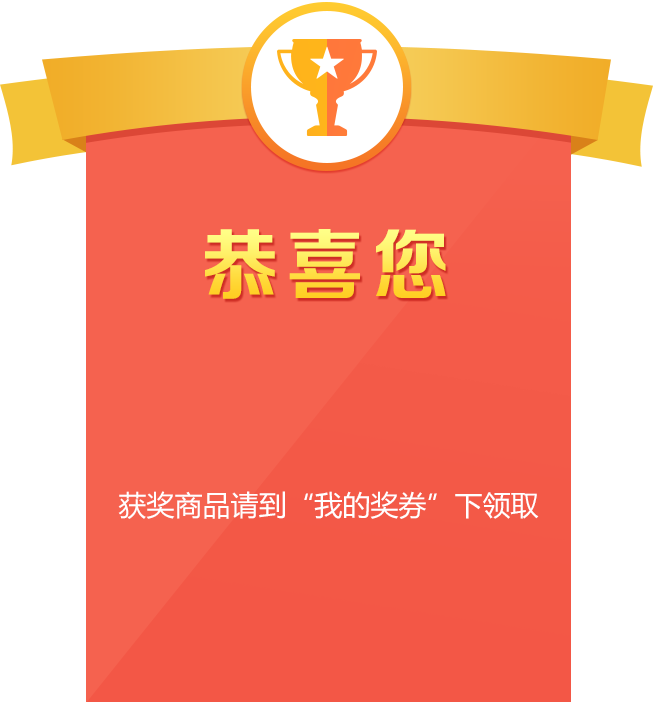
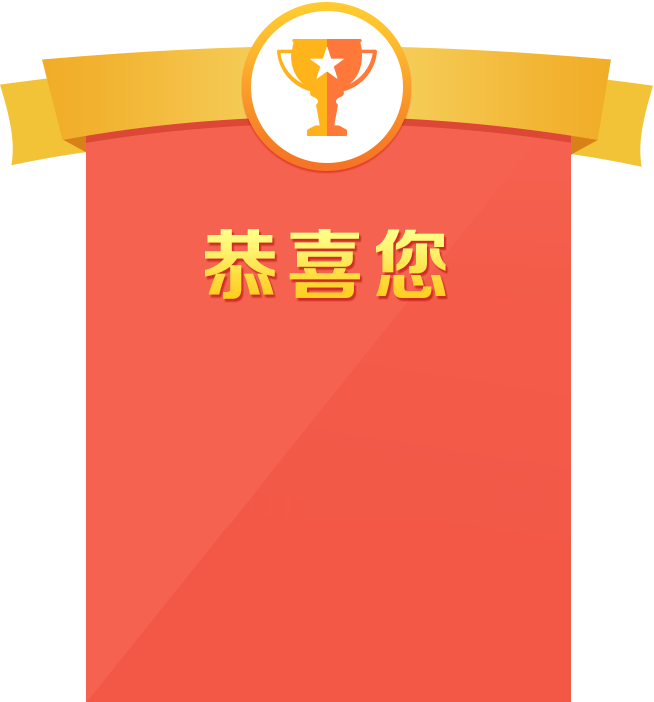
lottery

Changed region(s): [[0.1835, 0.688, 0.4587, 0.7479], [0.4587, 0.688, 0.6728, 0.7479], [0.7034, 0.688, 0.8257, 0.7479]]

diff --git a/app/Public/lottery/js/mui.js b/app/Public/lottery/js/mui.js
@@ -25,7 +25,7 @@ $(function(){
 
 });
 
-/*var page = {
+var page = {
     gameOver:false,
     isStart:false,
     baseNUm:72,
@@ -33,10 +33,10 @@ $(function(){
     angleCount:0,
     prizes:[
         {name:'新年快乐',angle:{"min":-36,"max":36},msg:'新年快乐',msg2:'新年快乐'},
-        {name:'20元',angle:{"min":36,"max":108},msg:'抽中20元 无条件',msg2:'获得20元 无条件'},
-        {name:'100元',angle:{"min":108,"max":180},msg:'抽中100元 满200使用',msg2:'获得100元 满200使用'},
-        {name:'200元',angle:{"min":180,"max":252},msg:'抽中200元 满500使用',msg2:'获得200元 满500使用'},
-        {name:'500元',angle:{"min":252,"max":324},msg:'抽中500元 满1000使用',msg2:'获得500元 满1000使用'},
+        {name:'20元',angle:{"min":36,"max":108},msg:'抽中20元 无条件抽中20元无条件抽中20元无条件抽中20元无条件',msg2:'获得20元 无条件'},
+        {name:'100元',angle:{"min":108,"max":180},msg:'抽中100元 满200使用抽中100元 满200使用抽中100元 满200使用抽中100元 满200使用',msg2:'获得100元 满200使用'},
+        {name:'200元',angle:{"min":180,"max":252},msg:'抽中200元 满500使用抽中200元 满500使用抽中200元 满500使用抽中200元 满500使用',msg2:'获得200元 满500使用'},
+        {name:'500元',angle:{"min":252,"max":324},msg:'抽中500元 满1000使用抽中500元 满1000使用抽中500元 满1000使用抽中500元 满1000使用',msg2:'获得500元 满1000使用'},
     ],
 };
 
@@ -44,7 +44,7 @@ $(function(){
 var index = {
   num: Math.floor(Math.random()*5),
   code: "asasdasasd"
-};*/
+};
 
 //点击抽奖
 function getLotteryResult(){
@@ -54,7 +54,7 @@ function getLotteryResult(){
 	page.isStart = true;
 
     var prizeId = award.num,
-
+      prizeId = 1,
         rounds = Math.floor(Math.random()*4)+4;
     page.pointAngle = (360 - page.angleCount % 360) + 360*rounds - ( Math.floor(Math.random()*page.baseNUm) + page.prizes[prizeId].angle.min);
 
@@ -105,15 +105,17 @@ function showResult(msg,scale){
 }
 
 function popUp(msg,scale, flag){
-  if(flag){
-    $(".js-win").hide();
-    $(".js-win-sorry").show();
-  }else{
-    $(".js-win").show();
-    $(".js-win-sorry").hide();
-  }
+  $(".js-win").hide();
+  $(".js-win-sorry").show();
+  //if(flag){
+  //  $(".js-win").hide();
+  //  $(".js-win-sorry").show();
+  //}else{
+  //  $(".js-win").show();
+  //  $(".js-win-sorry").hide();
+  //}
 
-  $("#winning-text").text(msg);
+  //$("#winning-text").html(msg);
   $("#winning").transition({
     scale: scale,
     duration: 500,
@@ -267,7 +269,7 @@ var mui = {
                 "width":winBackWidth+"px",'height':winBackHeight+"px",'display':'block'});
             var winTextHeight = height*50/mui.screen.imgHeight,
                 winTextTop = height*625/mui.screen.imgHeight;
-            $("#winning-text").css({"top":winTextTop+"px", 'height':winTextHeight+"px",
+            $("#winning-text").css({"top":winTextTop+"px",
                 'font-size':winTextHeight-5+"px",'display':'block'});
             var winOkWidth = width*280/mui.screen.imgWidth,
                 winOkHeight = height*80/mui.screen.imgHeight,

diff --git a/app/wei_index.html b/app/wei_index.html
@@ -15,7 +15,7 @@
     <link href="Public/css/button.css" rel="stylesheet">
     <link href="Public/css/main.css" rel="stylesheet">
 </head>
-<body class="">
+<body class="anni-theme">
 <header class="wei-head color-666 clearfix">
   <div class="pull-left">
     <a href="#">
@@ -212,22 +212,22 @@
   <ul class="l4 clearfix">
     <li class="wei-foot-li">
       <a href="javascript:void(0);">
-        <img src="Public/img/wei_home.png" width="32px"/>
+        <img src="Public/img/wei_home_new.png" width="32px"/>
       </a>
     </li>
     <li class="wei-foot-li">
       <a href="javascript:void(0);">
-        <img src="Public/img/wei_search.png" width="32px"/>
+        <img src="Public/img/wei_search_new.png" width="32px"/>
       </a>
     </li>
     <li class="wei-foot-li">
       <a href="javascript:void(0);">
-        <img src="Public/img/wei_shopping.png" width="32px"/>
+        <img src="Public/img/wei_shopping_new.png" width="32px"/>
       </a>
     </li>
     <li class="wei-foot-li">
       <a href="javascript:void(0);">
-        <img src="Public/img/wei_me.png" width="32px"/>
+        <img src="Public/img/wei_me_new.png" width="32px"/>
       </a>
     </li>
   </ul>

diff --git a/app/lottery.html b/app/lottery.html
@@ -70,11 +70,13 @@
 <div class="mui-winning" id="winning">
   <div class="mui-winning-shadow mui-control" id="winning-shadow"></div>
   <div class="mui-winning-back mui-control" id="winning-back">
-    <img src="Public/lottery/img/win.png" class="mui-img js-win">
-    <img src="Public/lottery/img/win_sorry.png" class="mui-img js-win-sorry hide">
+    <img src="Public/lottery/img/win.png" class="mui-img js-win ">
+    <img src="Public/lottery/img/win_sorry.png" class="mui-img js-win-sorry ">
   </div>
-  <div class="mui-winning-text mui-control" id="winning-text">
-
+  <div class="mui-winning-text mui-control " id="winning-text">
+    <span>抽中20元红包</span><br>
+    <span>全场无条件使用</span><br>
+    <span style="font-size: 12px;">有效期至：2015-11-21 12:00</span>
   </div>
   <div class="mui-winning-ok mui-control" id="winning-ok">
     <img src="Public/lottery/img/ok.png" class="mui-img" id="btn-winning-ok">

diff --git a/app/Public/lottery/css/mui.css b/app/Public/lottery/css/mui.css
@@ -165,7 +165,10 @@ body, html {
 }
 
 .mui-winning-text {
-  width: 100%;
+  width: 60%;
+  left: 50%;
+  margin-right: -50%;
+  transform: translate(-50%);
   z-index: 101;
   text-align: center;
   color: #FFFFFF;
@@ -354,4 +357,19 @@ body, html {
 }
 .n-start>img{
   width: 100%;
+}
+
+.overTextH {
+  display: -webkit-box;
+  -webkit-line-clamp: 2;
+  -webkit-box-orient: vertical;
+  text-overflow: ellipsis;
+  overflow: hidden;
+}
+
+.overText {
+  /*文本文字超过容器以省略号显示*/
+  text-overflow: ellipsis;
+  overflow: hidden;
+  white-space: nowrap;
 }

diff --git a/Gruntfile.js b/Gruntfile.js
@@ -406,8 +406,8 @@ module.exports = function (grunt) {
 //    'concurrent:dist',
 //    'autoprefixer',
 //    'concat',
-//    'cssmin'
-    'uglify'
+    'cssmin'
+    //'uglify'
 //    'copy:dist',
 //    'rev',
 //    'usemin',

diff --git a/app/Public/css/main.css b/app/Public/css/main.css
@@ -7532,3 +7532,4 @@ input.bid-add-inp{
   width: 23px;
 }
 /*移动管理页面*/
+
